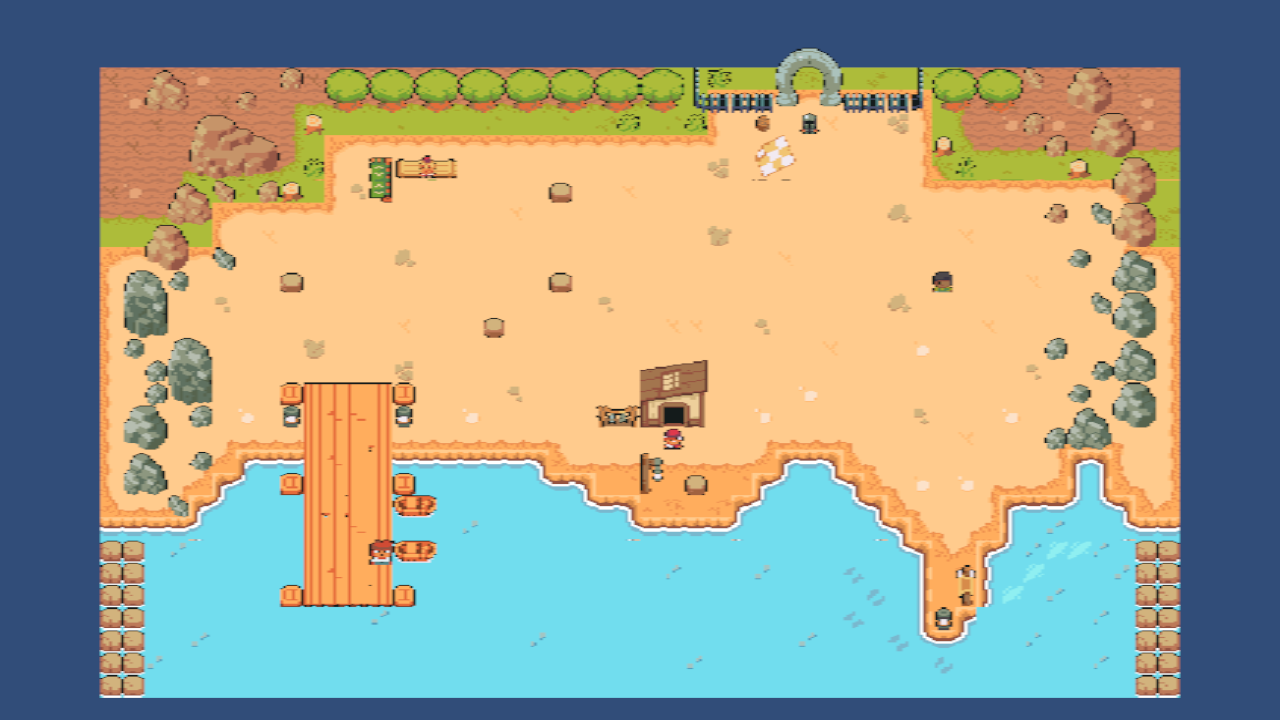
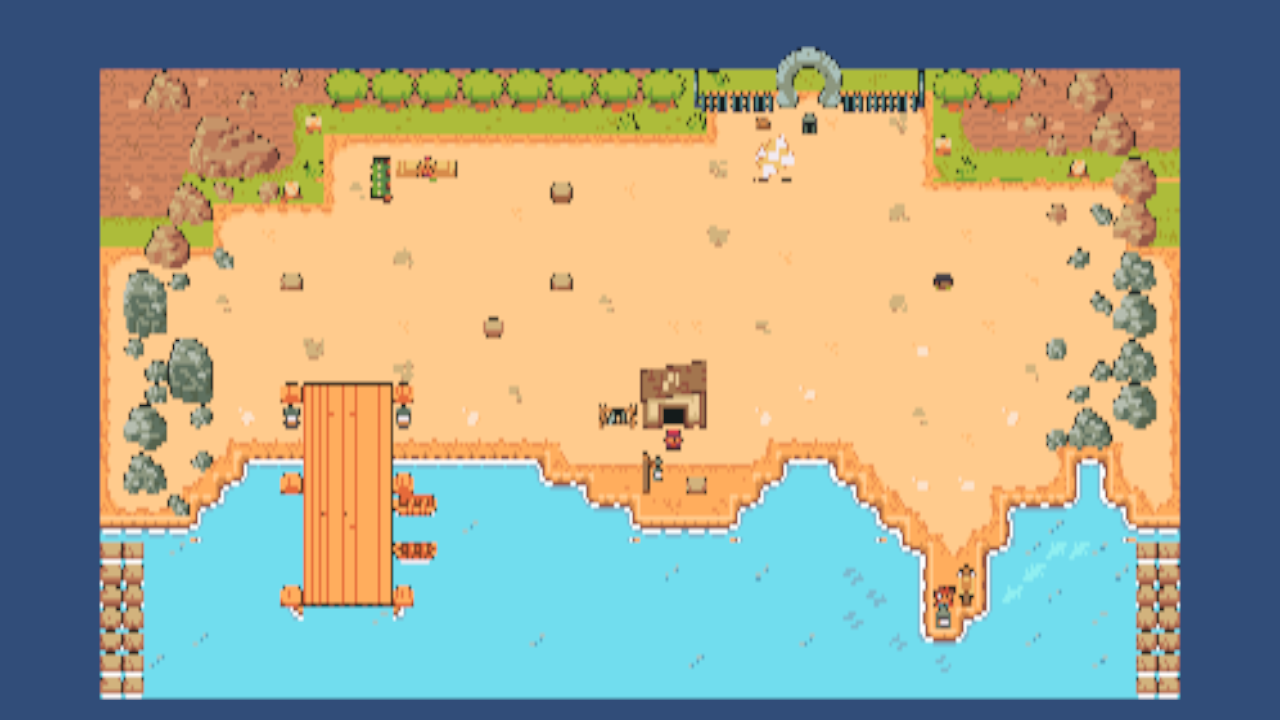
fix: align character scale and block beach props and NPC silhouettes

diff --git a/documents/Beach_Integration_Review.md b/documents/Beach_Integration_Review.md
@@ -12,15 +12,20 @@ Validated locally on 11 November 2026 in **Unity 6000.3.12f1**.
 - Adds one existing DialogueCanvas prefab instance, explicitly wired dialogue
   components, and the existing PlayerMovementLock adapter.
 - Replaces the NPCs' nonfunctional 3D colliders with solid Collider2D components.
-- Preserves movement's 4 units/second, four directions, last-key priority and
-  effective player box of **0.6293 x 1.189** world units. Removes the unfinished
-  Animator assignment without editing PlayerMovement.
+- Preserves movement's 4 units/second, four directions and last-key priority.
+  After visual review, sets Beach's player and NPC visuals to one tile tall,
+  with centered **1 x 1** character colliders to prevent body overlap. Moves
+  the spawn to the dock's center. PlayerMovement and the standalone movement
+  prototype are unchanged; the unfinished Animator remains unassigned.
 - Uses five isolated copies of the pack character sheets with 16x16 slices,
   centered pivots and 16 PPU. Original shared character importers and GUIDs stay
   identical to main. Copies contain exactly the original PNG bytes.
 - Adds global 2D lighting for the existing Sprite-Lit materials and four solid
   perimeter walls. Retains the authored terrain, tile palette and Cinemachine
   3.1.7 camera.
+- Blocks the peninsula pot and the full height of its tall sign. Repairs the
+  missing inner foam corner at `(17, -14)` and matching dock corners at
+  `(-14, -14)` / `(-9, -14)` using existing water tiles.
 
 ## Local verification
 
@@ -42,6 +47,7 @@ from the game and its dependencies.
 | Solid collision | Player stopped against the young islander's Collider2D and the water at the dock's south edge |
 | Map perimeter | Four enabled non-trigger Collider2D walls verified by raycasts |
 | Scene physics | No remaining 3D colliders in Beach |
+| Visual-review regression | 24 checks passed: equal visual height, all four NPCs solid from all four sides, both peninsula props, and the reported foam corner |
 | Console | Zero errors/warnings after final gameplay checks in all three scenes |
 | Asset integrity | No missing asset/folder .meta files or duplicate asset GUIDs |
 
@@ -79,7 +85,13 @@ reimport/reslice shared character sheets to obtain Beach's scale.
 
 ![Beach overview](../Images/Screenshots/Beach_Integration/overview.png)
 
-The overview uses a temporary review camera to show the entire authored map;
-that camera is not saved in the scene. The image below is the actual Game View.
+The overview and close-up use temporary review cameras for readable framing;
+these cameras are not saved in the scene. Dialogue UI was verified separately
+in Play Mode.
 
-![Old Spin dialogue](../Images/Screenshots/Beach_Integration/old-spin-dialogue.png)
+![Corrected peninsula corner and blocked props](../Images/Screenshots/Beach_Integration/coast-refinement.png)
+
+Walking animations and directional standing poses already exist in the asset
+pack and are tracked in [Trello](https://trello.com/c/HTDv0uXE). The four Idle
+frames are facing directions, not a four-frame idle loop; NPC wandering is
+still excluded.

diff --git a/documents/NPC_Dialogue_Integration.md b/documents/NPC_Dialogue_Integration.md
@@ -219,10 +219,13 @@ be repeated. The four NPCs use solid **2D** colliders instead of the map draft's
 3D colliders. A global 2D light makes the existing Sprite-Lit materials visible.
 
 The unchanged movement controller runs at 4 units/second with four directions
-and last-pressed-key priority. The player's root scale is one and its box is
-**0.6293 x 1.189** world units, matching the movement prototype's effective
-world-space box. Its separate Boy visual is 1.189 units tall, with its aspect
-ratio preserved. The unfinished Animator is not assigned.
+and last-pressed-key priority. Following visual review, Beach's player and all
+four NPCs are **one world unit tall**, with the Boy visual's aspect ratio
+preserved. Their centered **1 x 1** boxes block the complete character silhouette
+so the player cannot stand over an NPC's upper body. The player starts in the
+middle of the dock to keep its wider box clear of the water. The standalone
+movement prototype retains its original settings. The unfinished Animator is
+not assigned.
 
 Character textures used by Beach are isolated in `Assets/Sprites/BeachCharacters`:
 Boy, OldMan2, Knight, Village6 and Villager3. These are copies from Ninja Adventure,
@@ -234,6 +237,17 @@ Do not move or reimport the shared character sheets to reproduce Beach's scale.
 The map retains its tiles, palette and Cinemachine **3.1.7** camera. Invisible
 2D colliders at the Ground tilemap's perimeter prevent walking off the map;
 they do not implement a progression gate. Project build settings are unchanged.
+Separate solid colliders cover the pot and tall sign on the south peninsula.
+Three missing inner foam corners (the reported peninsula corner and two dock
+corners) use existing water tiles; shared tile assets/importers are unchanged.
+
+The pack already supplies `SeparateAnim/Idle.png` (four 16x16 frames) and
+`SeparateAnim/Walk.png` (sixteen 16x16 frames) for all five selected characters.
+The Idle strip contains directional standing poses, not a breathing loop.
+Player directional walking/idle and stationary NPC poses are tracked in
+[the animation task](https://trello.com/c/HTDv0uXE). They are not implemented in
+this scene yet. Attack/jump/death/special sheets are outside the game's current
+scope.
 
 ### Temporary limits
 
